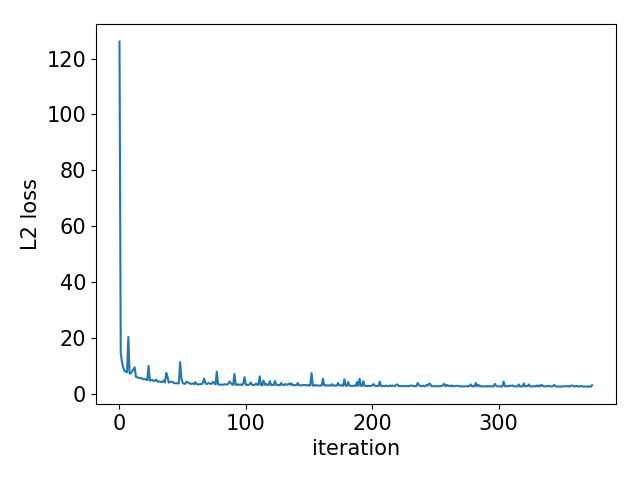
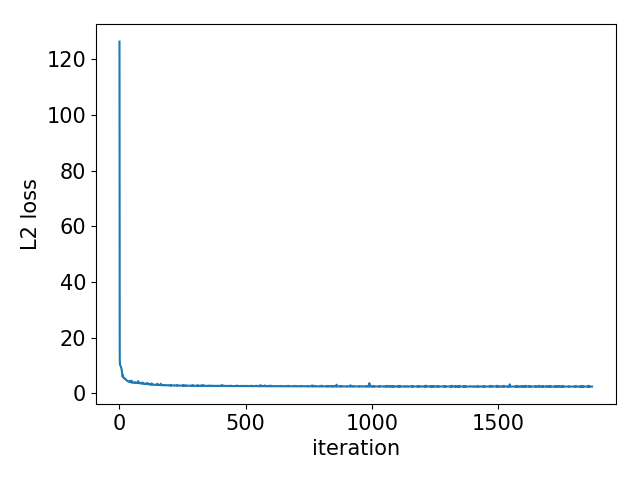
20180613

diff --git a/README.md b/README.md
@@ -5,15 +5,21 @@ Result
 -----
 |Loss|PSNR|
 |:---:|:---:|
-|<img src = 'readme/graph_loss.png'>|<img src = 'readme/graph_psnr.png'>|  
+|<img src = 'readme/graph_loss.png'>|<img src = 'readme/graph_psnr.png'>|   
 
-Figure 1. The graph of training process.  
+Figure 1. The graph of training process. The lower L2 loss and the higher PSNR is better than not.    
+
+|Loss|PSNR|
+|:---:|:---:|
+|<img src = 'readme/compare_loss.png'>|<img src = 'readme/compare_psnr.png'>|  
+
+Figure 2. Comparison of three architecture. The 'Origianl SRNET' is proposed by Chao Dong et al. and other two architecture is developed in this study. The '5 Layer' architecture has more non-linear combination than 'Origianl SRNET' and it has smaller kernel. Because, it reduces not only the distortion of the edges of the image but also number of parameters. However, it cannot fitting the training data well that is reason of using 'Residual' architecture. It enhanced the PSNR than '5 Layer' architecture and also recude oscillation than 'Origianl SRNET'.
 
 |Low resolution|Reconstruction<br>(PSNR:44.51 dB)|High resolution|
 |:---:|:---:|:---:|
 |<img src = 'readme/low.png'>|<img src = 'readme/recon.png'>|<img src = 'readme/high.png'>|  
 
-Figure 2. The sample reconstruction CT.  
+Figure 3. The sample reconstruction CT. First image of Figure 3 looks like blurry iamge however middle image is significantly clear than first one. The middle image also very simmilar with original High-resolution image.  
 
 Reference
 -----
